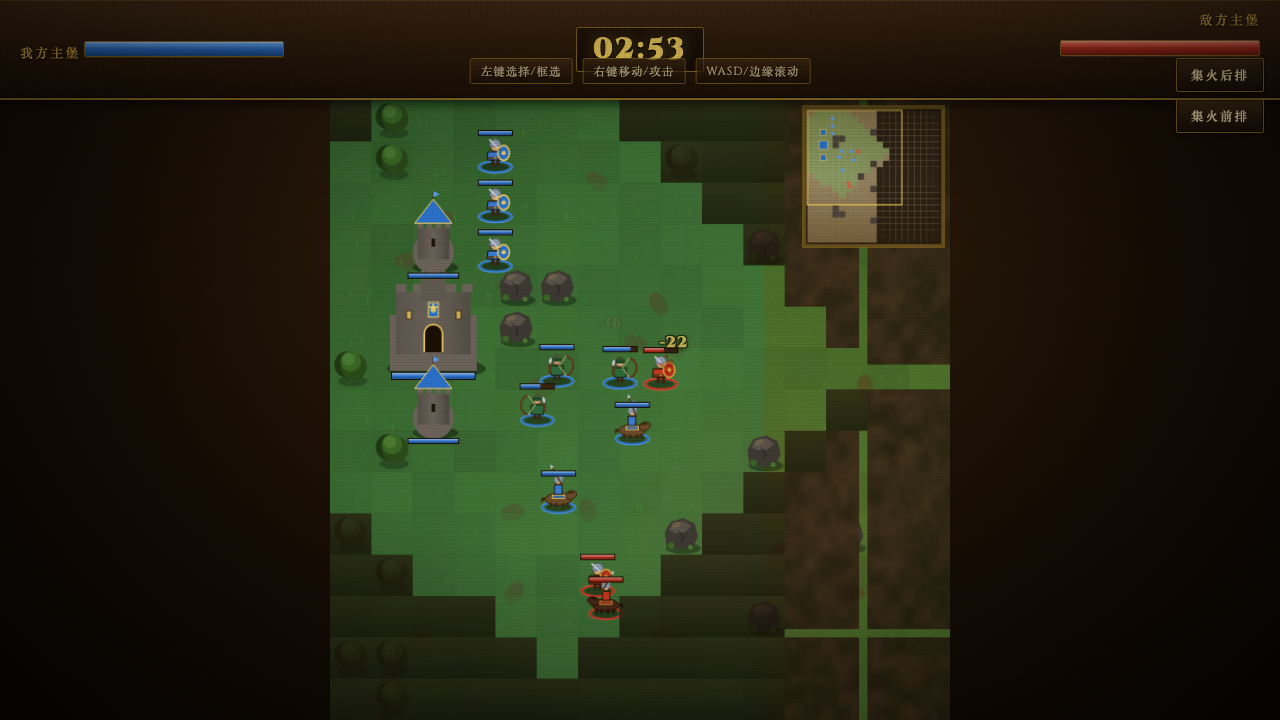
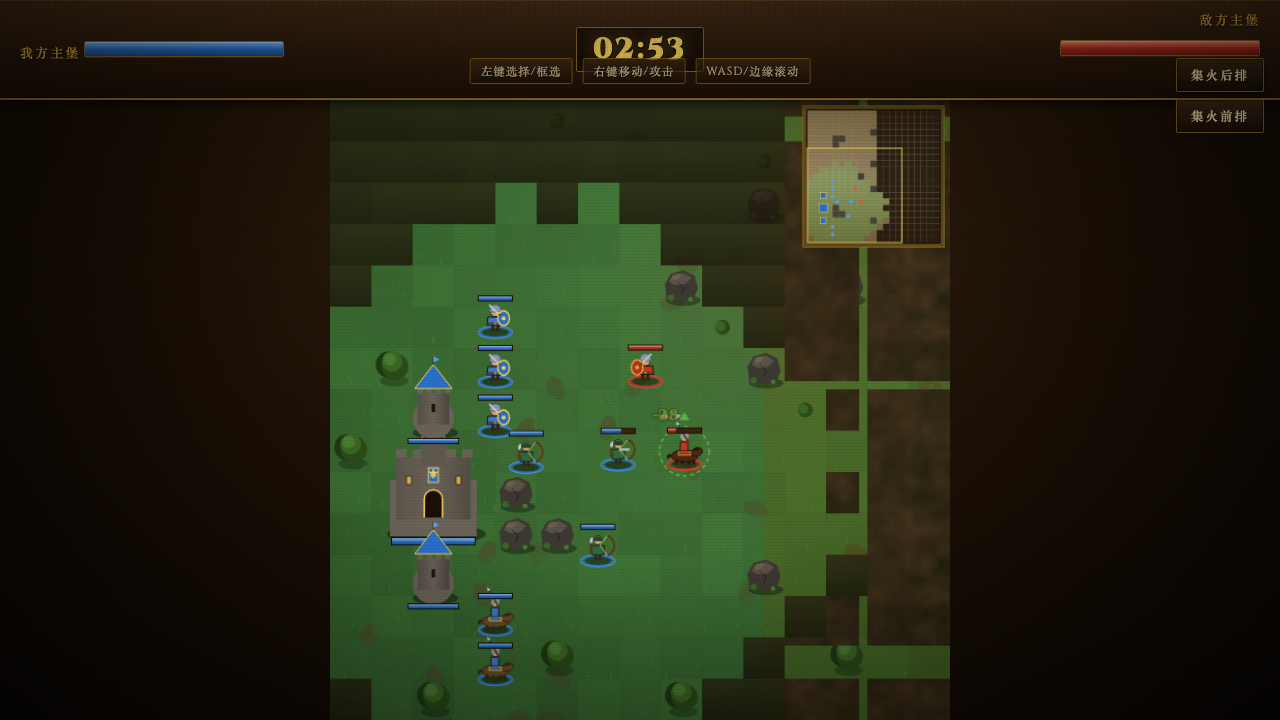
fix: rename result stats to 我方总血量/敌方总血量 for clarity

Changed region(s): [[0.25, 0.1222, 0.75, 1.0], [0.625, 0.2444, 0.7188, 0.3361], [0.5938, 0.1528, 0.7188, 0.2139]]

diff --git a/code/index.html b/code/index.html
@@ -1566,7 +1566,7 @@ function endGame(result){
   const pA=units.filter(u=>u.team==='player'&&u.alive).length;
   const eL=MAX_UNITS-units.filter(u=>u.team==='enemy'&&u.alive).length;
   const timeUsed=BATTLE_TIME-Math.max(0,Math.ceil(battleTimer));
-  $('result-stats').innerHTML=`<div>⏱ 用时: ${Math.floor(timeUsed/60)}分${timeUsed%60}秒</div><div>🔵 我方损失: ${MAX_UNITS-pA}</div><div>🔴 敌方损失: ${eL}</div><div>🔵 我方剩余: ${calcPower('player')}</div><div>🔴 敌方剩余: ${calcPower('enemy')}</div>`;
+  $('result-stats').innerHTML=`<div>⏱ 用时: ${Math.floor(timeUsed/60)}分${timeUsed%60}秒</div><div>🔵 我方损失: ${MAX_UNITS-pA}</div><div>🔴 敌方损失: ${eL}</div><div>🔵 我方总血量: ${calcPower('player')}</div><div>🔴 敌方总血量: ${calcPower('enemy')}</div>`;
   showScreen('result-screen');
 }
 

diff --git a/qa-outputs/latest-report.md b/qa-outputs/latest-report.md
@@ -1,0 +1,20 @@
+# QA Report - 2026-05-27 19:34
+
+## Summary
+- **Status**: PASSED
+- **Tests**: 3 passed, 0 failed, 3 total
+- **Duration**: 25.0s
+
+## Test Results
+| Test | Status | Duration |
+|------|--------|----------|
+| player auto-engages when enemy enters vision | PASS | 9.8s |
+| units navigate around obstacles via BFS | PASS | 6.6s |
+| game does not freeze after errors | PASS | 8.6s |
+
+## Evidence
+- qa-outputs/auto-engage.png
+- qa-outputs/bfs-navigation.png
+
+## Verdict
+Ready to push
